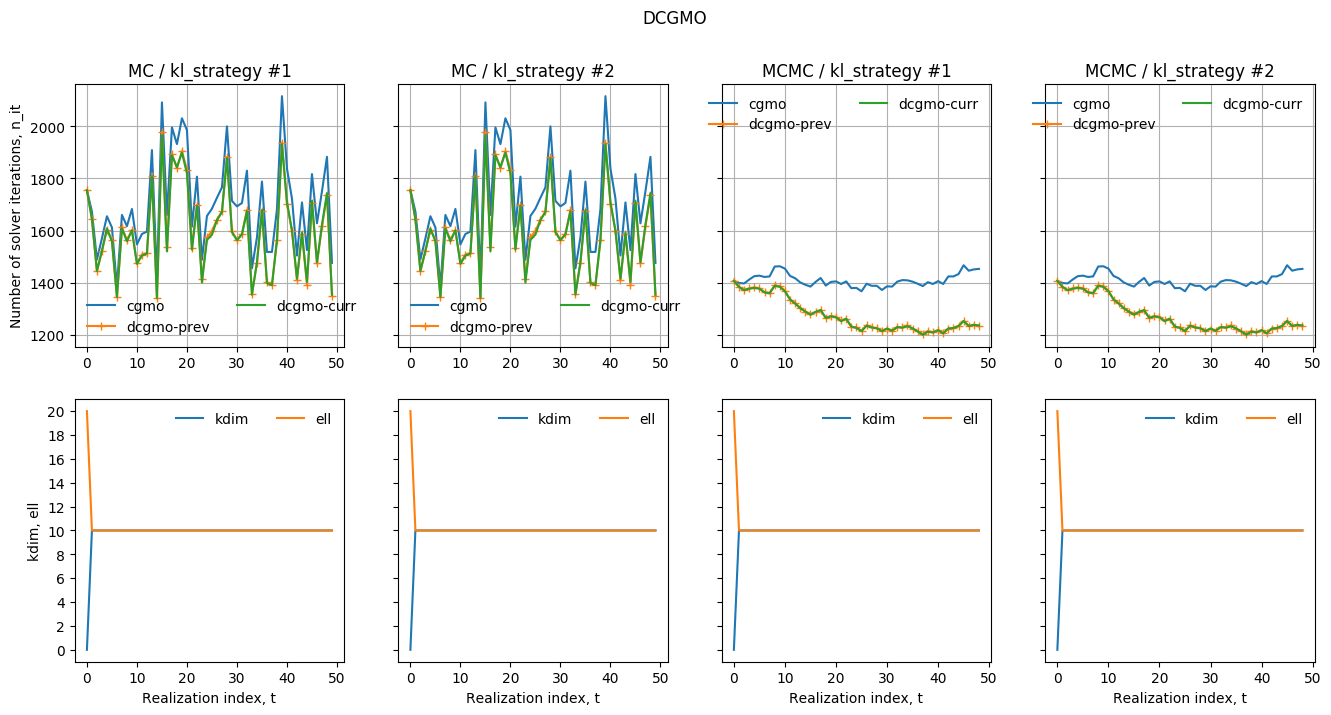
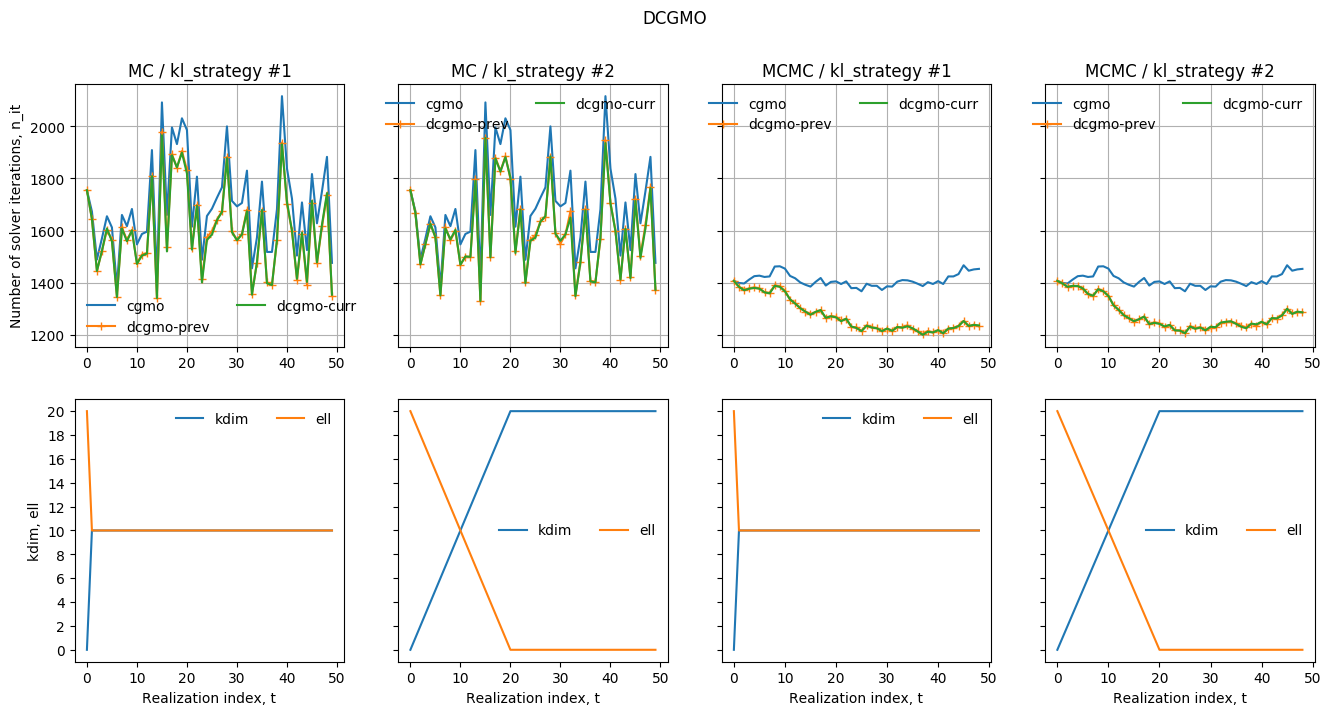
first-commit

diff --git a/recyclers.py b/recyclers.py
@@ -78,9 +78,11 @@ class recycler:
     elif (self.approx == "RR"):
       _, eigvecs = scipy.linalg.eigh(G, F, eigvals=(self.solver.kdim+self.solver.ell-new_kdim, self.solver.kdim+self.solver.ell-1))
     
-    if (self.solver.kdim > 0):
+    if (self.solver.kdim > 0) & (self.solver.ell >0):
       self.solver.W = self.solver.W.dot(eigvecs[:self.solver.kdim,:]) \
                       + self.solver.P.dot(eigvecs[self.solver.kdim:,:])
+    elif (self.solver.kdim > 0):
+      self.solver.W = self.solver.W.dot(eigvecs[:self.solver.kdim,:])
     else:
       self.solver.W = self.solver.P.dot(eigvecs)
 
@@ -109,7 +111,6 @@ class recycler:
         if (self.solver.kdim > 0):
           F[:self.solver.kdim,:self.solver.kdim] = self.solver.W.T.dot(AW)
           if (self.solver.ell > 0):
-            F[self.solver.kdim:,self.solver.kdim:] = self.solver.W.T.dot(AP)
             if (self.which_op == "current"):
               F[:self.solver.kdim,self.solver.kdim:] = self.solver.W.T.dot(AP)
               F[self.solver.kdim:,:self.solver.kdim] = F[:self.solver.kdim,self.solver.kdim:].T

diff --git a/README.tex.md b/README.tex.md
@@ -516,7 +516,7 @@ Output :
 
 #### Example #5: example05_recycler.py
 
-Solves the sequence $\{u(x;\theta_t)\}_{t=1}^M$ by DCGMO for a sampled sequences $\{\kappa(x;\theta_t)\}_{t=1}^M$. 
+Solves the sequence $\{u(x;\theta_t)\}_{t=1}^M$ by DPCGMO for a sampled sequences $\{\kappa(x;\theta_t)\}_{t=1}^M$. 
 
 ```python
 from samplers import sampler
